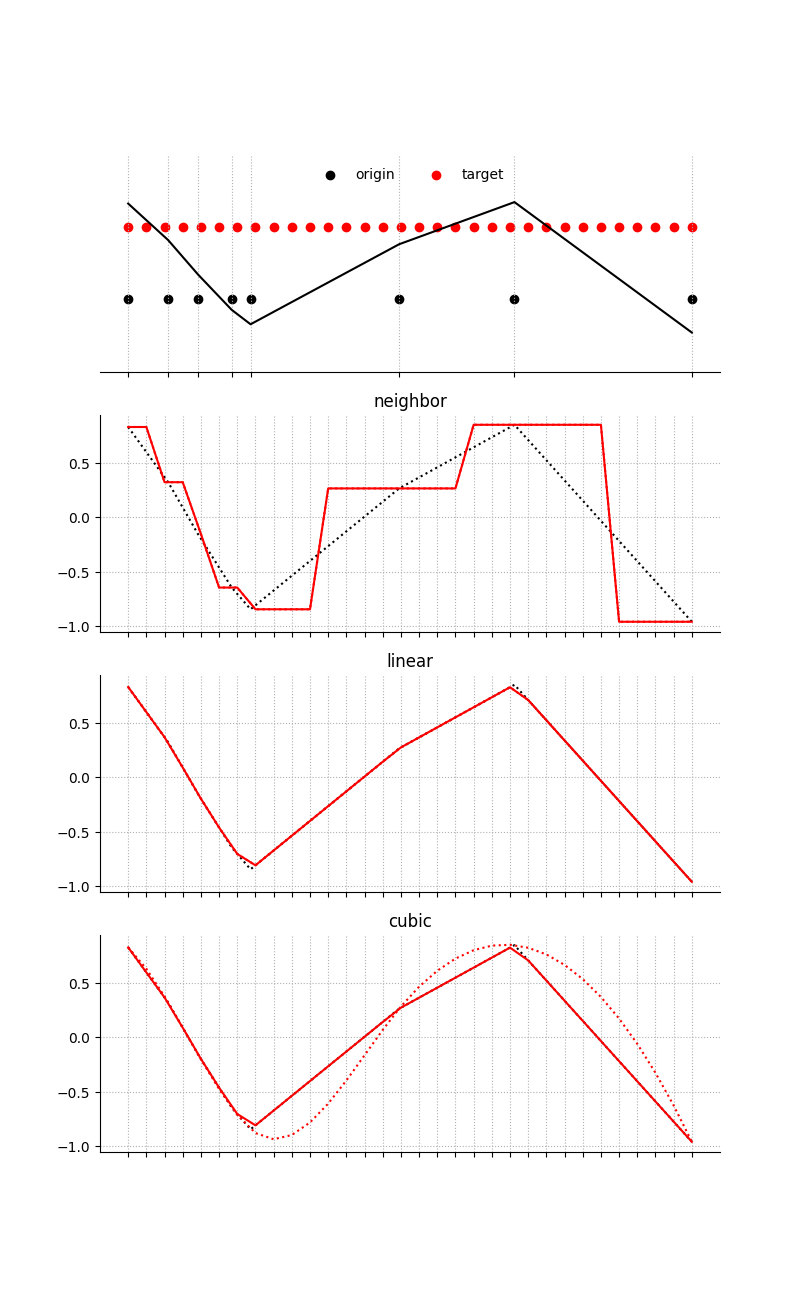
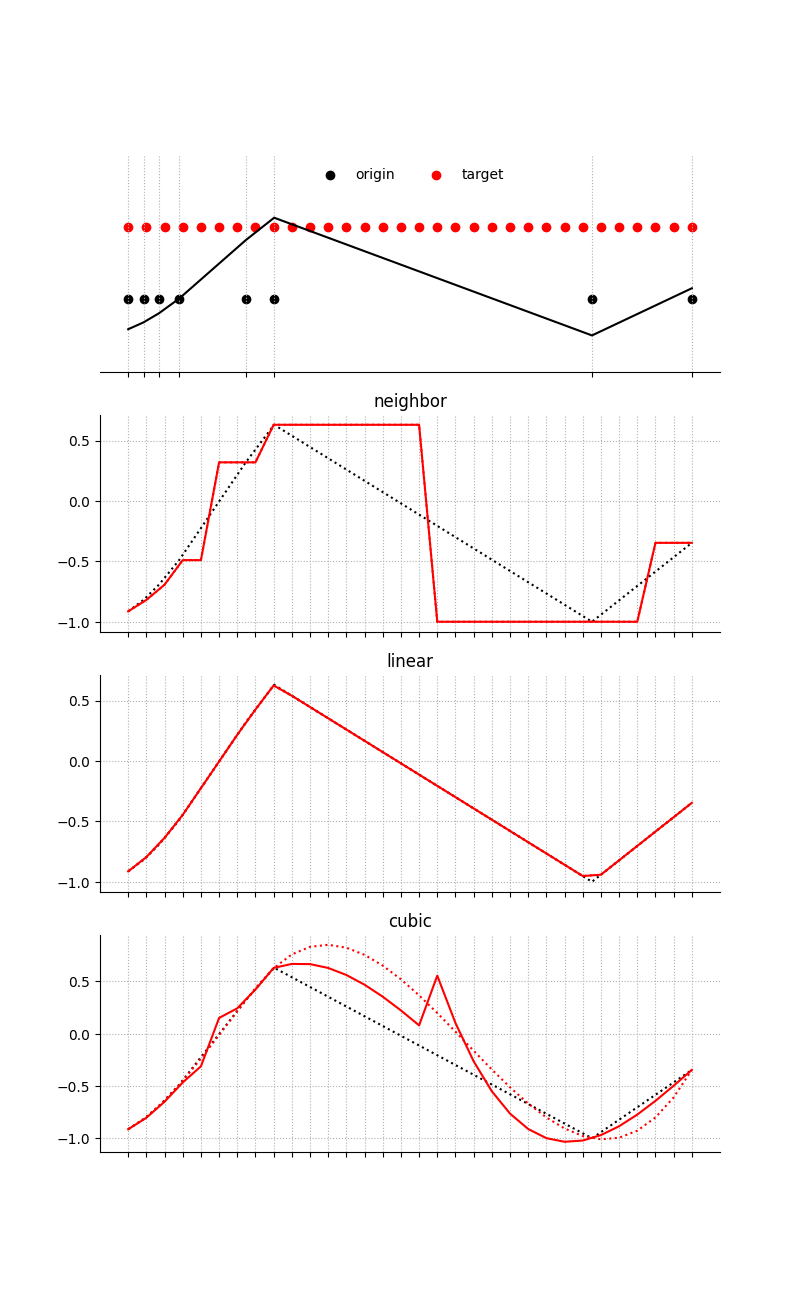
Add an attempt at cubic interpolation

diff --git a/lab3/script.py b/lab3/script.py
@@ -31,32 +31,77 @@ def interp_linear(x_source, y_source, x_target):
     x_1 = x_source[addr_upper]
     x_0 = x_source[addr_lower]
 
-    A = (y_1-y_0) / (x_1 - x_0)
-    B = (y_0*x_1 - y_1*x_0) / (x_1 - x_0)
+    A = (y_1 - y_0) / (x_1 - x_0)
+    B = (y_0 * x_1 - y_1 * x_0) / (x_1 - x_0)
 
     y_target = A * x_target + B
     y_target[np.isnan(y_target)] = y_0[np.isnan(y_target)]
-    print(y_target)
+    # print(y_target)
     return y_target
     # return np.zeros_like(x_target)
 
 
 def interp_cubic(x_source, y_source, x_target):
-    return np.zeros_like(x_target)
+    m = x_source.size
+    n = x_source.size - 1
+
+    a = np.copy(y_source)
+    b = np.empty(n)
+    d = np.empty(n)
+    h = np.diff(x_source)
+
+    beta = np.diff(a) / h
+    alpha = np.empty(n)
+    for i in range(1, n):
+        alpha[i] = 3 * beta[i] - beta[i - 1]
+
+    c = np.empty(m)
+    l = np.empty(m)
+    mu = np.empty(m)
+    z = np.empty(m)
+
+    l[0] = 1
+    mu[0] = z[0] = 0
+
+    for i in range(1, n):
+        l[i] = 2 * (x_source[i + 1] - x_source[i - 1]) - h[i - 1] * mu[i - 1]
+        mu[i] = h[i] / l[i]
+        z[i] = (alpha[i] - h[i - 1] * z[i - 1]) / l[i]
+
+    l[n] = 1
+    z[n] = c[n] = 0
+
+    for j in range(n - 1, -1, -1):
+        c[j] = z[j] - mu[j] * c[j + 1]
+        b[j] = beta[j] - h[j] * (c[j + 1] + 2 * c[j]) / 3
+        d[j] = (c[j + 1] - c[j]) / (3 * h[j])
+
+    dist = x_source[:, np.newaxis] - x_target[np.newaxis, :]
+    abs_dist = np.abs(dist)
+    addr = np.argmin(abs_dist, axis=0)
+    addr[addr == n] = n - 1
+
+    y_target = (
+        a[addr]
+        + b[addr] * (x_target - x_source[addr])
+        + c[addr] * (x_target - x_source[addr]) ** 2
+        + d[addr] * (x_target - x_source[addr]) ** 3
+    )
+
+    return y_target
 
 
 # Probers
-original_prober = np.sort(np.random.uniform(size=8)*np.pi*4)
-target_prober = np.linspace(np.min(original_prober),
-                            np.max(original_prober), 32)
+original_prober = np.sort(np.random.uniform(size=8) * np.pi * 4)
+target_prober = np.linspace(np.min(original_prober), np.max(original_prober), 32)
 
 # Sampling
 original_signal = np.sin(original_prober)
 
 # Out-of-box interpolators
-fn = interp1d(original_prober, original_signal, kind='nearest')
-fl = interp1d(original_prober, original_signal, kind='linear')
-fc = interp1d(original_prober, original_signal, kind='cubic')
+fn = interp1d(original_prober, original_signal, kind="nearest")
+fl = interp1d(original_prober, original_signal, kind="linear")
+fc = interp1d(original_prober, original_signal, kind="cubic")
 
 # Interpolation
 target_signal_fn = fn(target_prober)
@@ -66,45 +111,45 @@ target_signal_fc = fc(target_prober)
 args = (original_prober, original_signal, target_prober)
 own_target_signal_fn = interp_nearest(*args)
 own_target_signal_fl = interp_linear(*args)
-own_target_signal_fc = interp_linear(*args)
+own_target_signal_fc = interp_cubic(*args)
 
 # Store them for plotting
 target_signals = [target_signal_fn, target_signal_fl, target_signal_fc]
-own_target_signals = [own_target_signal_fn,
-                      own_target_signal_fl, own_target_signal_fc]
+own_target_signals = [own_target_signal_fn, own_target_signal_fl, own_target_signal_fc]
 
 # Plotting
-fig, ax = plt.subplots(4, 1, figsize=(8, 8*1.618))
+fig, ax = plt.subplots(4, 1, figsize=(8, 8 * 1.618))
 
-ax[0].scatter(original_prober, np.ones_like(original_prober) * -.5,
-              label='origin', c='black')
-ax[0].scatter(target_prober, np.ones_like(target_prober) * .5,
-              label='target', c='red')
-ax[0].plot(original_prober, original_signal, c='black')
+ax[0].scatter(
+    original_prober, np.ones_like(original_prober) * -0.5, label="origin", c="black"
+)
+ax[0].scatter(target_prober, np.ones_like(target_prober) * 0.5, label="target", c="red")
+ax[0].plot(original_prober, original_signal, c="black")
 ax[0].set_ylim(-1.5, 1.5)
 ax[0].legend(frameon=False, loc=9, ncol=2)
 ax[0].set_yticks([])
 ax[0].set_xticks(original_prober)
 ax[0].set_xticklabels([])
-ax[0].spines['top'].set_visible(False)
-ax[0].spines['right'].set_visible(False)
-ax[0].spines['left'].set_visible(False)
+ax[0].spines["top"].set_visible(False)
+ax[0].spines["right"].set_visible(False)
+ax[0].spines["left"].set_visible(False)
 ax[0].grid(ls=":")
 
 
-for i, (target_signal, own_target_signal) in enumerate(zip(target_signals,
-                                                           own_target_signals)):
-    ax[1+i].plot(original_prober, original_signal, c='black', ls=":")
-    ax[1+i].plot(target_prober, target_signal, 'red', ls=":")
-    ax[1+i].plot(target_prober, own_target_signal, 'red')
-    ax[1+i].grid(ls=":")
-    ax[1+i].set_xticks(target_prober)
-    ax[1+i].set_xticklabels([])
-    ax[1+i].spines['top'].set_visible(False)
-    ax[1+i].spines['right'].set_visible(False)
+for i, (target_signal, own_target_signal) in enumerate(
+    zip(target_signals, own_target_signals)
+):
+    ax[1 + i].plot(original_prober, original_signal, c="black", ls=":")
+    ax[1 + i].plot(target_prober, target_signal, "red", ls=":")
+    ax[1 + i].plot(target_prober, own_target_signal, "red")
+    ax[1 + i].grid(ls=":")
+    ax[1 + i].set_xticks(target_prober)
+    ax[1 + i].set_xticklabels([])
+    ax[1 + i].spines["top"].set_visible(False)
+    ax[1 + i].spines["right"].set_visible(False)
 
-ax[1].set_title('neighbor')
-ax[2].set_title('linear')
-ax[3].set_title('cubic')
+ax[1].set_title("neighbor")
+ax[2].set_title("linear")
+ax[3].set_title("cubic")
 
-plt.savefig('foo.png')
+plt.savefig("foo.png")
